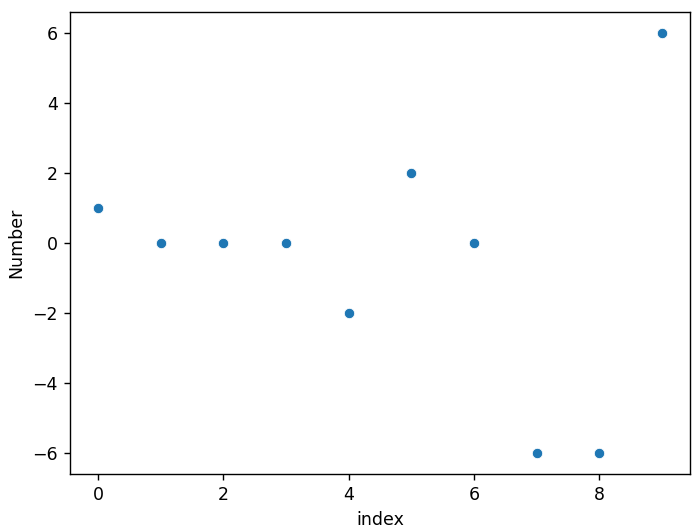
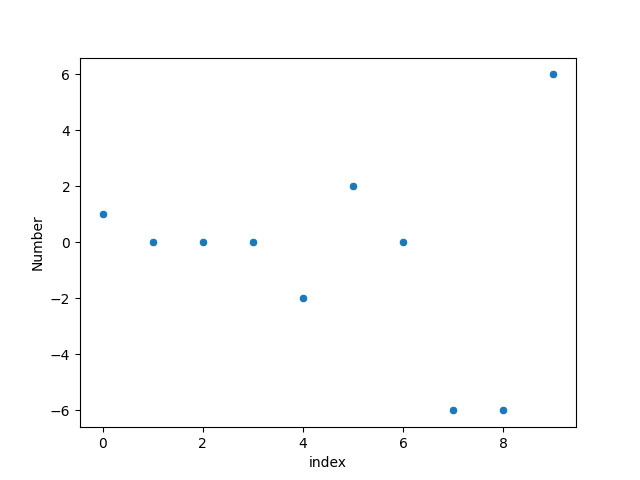
edit README.md

diff --git a/prime-reversal-sequence.py b/prime-reversal-sequence.py
@@ -49,20 +49,15 @@ def generate_prime_reversal_sequence(n):
             i += 2
     return sequence
 
-sequence = generate_prime_reversal_sequence(20)
-print(sequence)
+print(generate_prime_reversal_sequence(100))
 
 # Basic Scatterplots
 n = 10
 sequence = generate_prime_reversal_sequence(n)
 df = pd.DataFrame(sequence, columns=["Number"])
-
-indices = []
-for i in range(n):
-    indices.append(i)
-df['index'] = indices
-
+df['index'] = [i for i in range(n)]
 sns.scatterplot(x="index", y='Number', data=df)
+plt.savefig("images/10.png")
 plt.show()
 
 n = 100
@@ -70,6 +65,7 @@ sequence = generate_prime_reversal_sequence(n)
 df = pd.DataFrame(sequence, columns=["Number"])
 df['index'] = [i for i in range(n)]
 sns.scatterplot(x="index", y='Number', data=df)
+plt.savefig("images/100.png")
 plt.show()
 
 n = 1000
@@ -77,6 +73,7 @@ sequence = generate_prime_reversal_sequence(n)
 df = pd.DataFrame(sequence, columns=["Number"])
 df['index'] = [i for i in range(n)]
 sns.scatterplot(x="index", y='Number', data=df)
+plt.savefig("images/1000.png")
 plt.show()
 
 n = 10000
@@ -84,6 +81,7 @@ sequence = generate_prime_reversal_sequence(n)
 df = pd.DataFrame(sequence, columns=["Number"])
 df['index'] = [i for i in range(n)]
 sns.scatterplot(x="index", y='Number', data=df)
+plt.savefig("images/10000.png")
 plt.show()
 
 # Average plots
@@ -100,6 +98,7 @@ for i, s in enumerate(sequence):
 df = pd.DataFrame(average_sequence, columns=["Average"])
 df['index'] = [i for i in range(n)]
 sns.scatterplot(x='index', y='Average', data=df)
+plt.savefig("images/average_10.png")
 plt.show()
 
 n = 100
@@ -115,6 +114,7 @@ for i, s in enumerate(sequence):
 df = pd.DataFrame(average_sequence, columns=["Average"])
 df['index'] = [i for i in range(n)]
 sns.scatterplot(x='index', y='Average', data=df)
+plt.savefig("images/average_100.png")
 plt.show()
 
 n = 1000
@@ -130,6 +130,7 @@ for i, s in enumerate(sequence):
 df = pd.DataFrame(average_sequence, columns=["Average"])
 df['index'] = [i for i in range(n)]
 sns.scatterplot(x='index', y='Average', data=df)
+plt.savefig("images/average_1000.png")
 plt.show()
 
 n = 10000
@@ -145,6 +146,7 @@ for i, s in enumerate(sequence):
 df = pd.DataFrame(average_sequence, columns=["Average"])
 df['index'] = [i for i in range(n)]
 sns.scatterplot(x='index', y='Average', data=df)
+plt.savefig("images/average_10000.png")
 plt.show()
 
 n = 100000
@@ -160,4 +162,5 @@ for i, s in enumerate(sequence):
 df = pd.DataFrame(average_sequence, columns=["Average"])
 df['index'] = [i for i in range(n)]
 sns.scatterplot(x='index', y='Average', data=df)
+plt.savefig("images/average_100000.png")
 plt.show()

diff --git a/README.md b/README.md
@@ -1,7 +1,7 @@
 # prime-reversal-sequence
 This script generates a particular [prime reversal sequence](https://www.youtube.com/watch?v=pAMgUB51XZA). 
 
-output: `[1, 0, 0, 0, -2, 2, 0, -6, -6, 6, 0, -4, 4, -10, -14, 10, 4, 14, -30, -42]`
+output: `[1, 0, 0, 0, -2, 2, 0, -6, -6, 6, 0, -4, 4, -10, -14, 10, 4, 14, -30, -42, 0, -42, -18, 12, 30, 18, -12, 0, 18, 42, 0, -62, -8, -70, -20, -82, -28, -34, -62, -8, -26, 8, -62, 62, 34, -28, 8, -28, 28, 62, 82, -8, 98, 28, 0, -186, -84, -210, -60, -24, -150, -36, -102, -162, 0, -60, -90, 60, -90, -24, 84, -102, -126, 24, -66, -126, 66, 42, 126, 102, 24, 90, -60, 150, -36, 0, 186, 162, 102, -24, 60, -24, 24, 60, 84, 24, 126, -56, -310, -196]`
 
 # Plotting with Seaborn
 ## Basic Scatterplots
